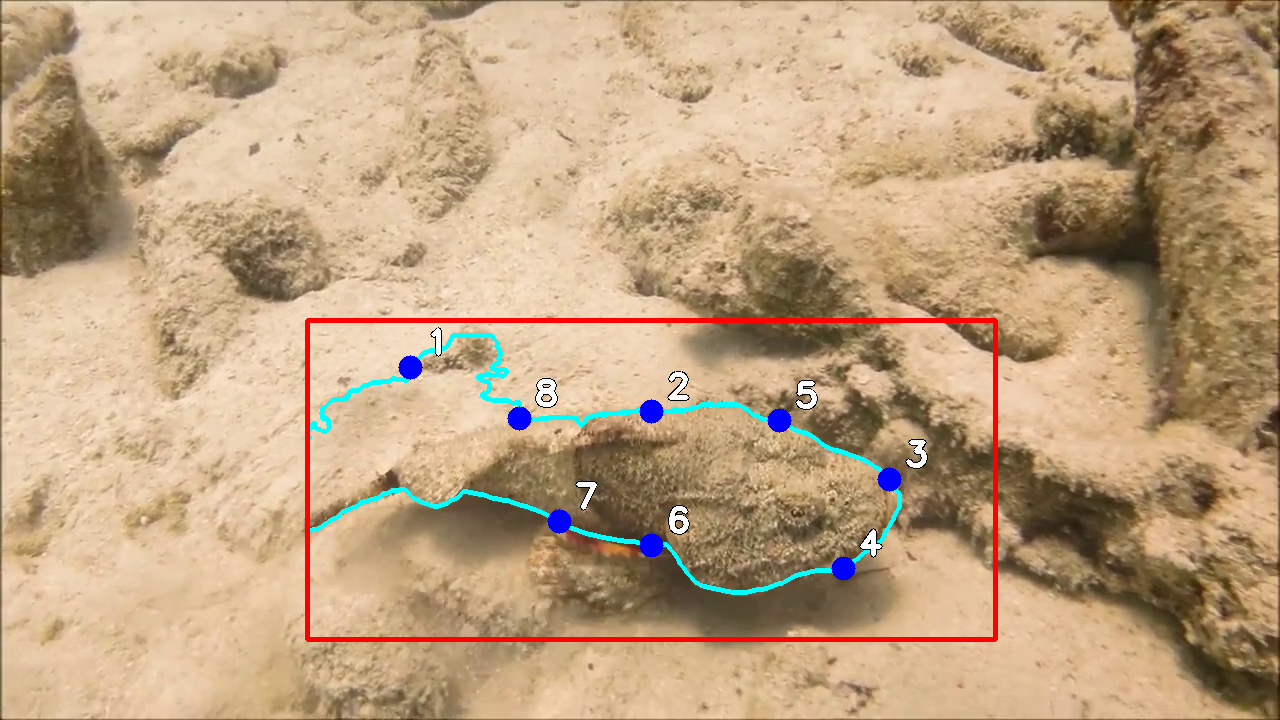
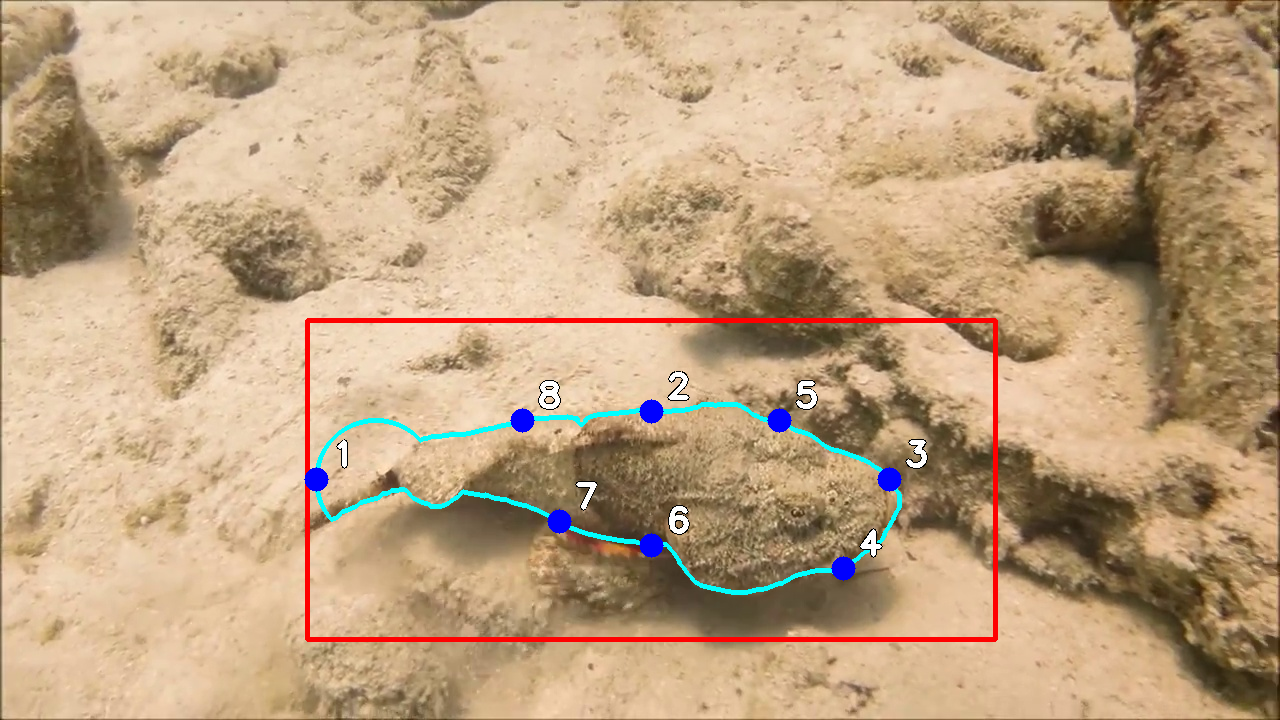
优化提示词，门控机制优化，但是还是会判别不准，强制限制同一个点选择的次数吧

Changed region(s): [[0.2188, 0.4583, 0.4375, 0.7028], [0.25, 0.7028, 0.2812, 0.7333]]

diff --git a/src/sculptor/vlm/prompts.py b/src/sculptor/vlm/prompts.py
@@ -26,26 +26,36 @@ def build_anchor_prompt(
     )
 
     user_msg = f"""
-Target instance (canonical, singular): '{instance}'
+CAMOUFLAGED TARGET: '{instance}'
+This is a CAMOUFLAGED object that naturally blends with its environment. The target may have:
+- Similar colors/textures to the background
+- Irregular, organic shapes that mimic surroundings  
+- Subtle boundaries that are hard to distinguish
+- Parts that appear to "fade into" or "emerge from" the background
+
+Camouflage analysis context:
 Synonyms/aliases: {_fmt_list(sem.get('synonyms'))}
-Salient cues (positive): {_fmt_list(sem.get('salient_cues'))}
-Distractors (background lookalikes): {_fmt_list(sem.get('distractors'))}
-Shape prior: {sem.get('shape_prior') or "unknown"}
-Texture/color prior: {_fmt_list(sem.get('texture_prior'))}
-Scene context: {sem.get('scene_context') or "unknown"}
-NOT-target parts to avoid: {_fmt_list(sem.get('not_target_parts'))}
+Key identifying features: {_fmt_list(sem.get('salient_cues'))}
+Background mimics/distractors: {_fmt_list(sem.get('distractors'))}
+Typical shape: {sem.get('shape_prior') or "unknown"}
+Texture/color patterns: {_fmt_list(sem.get('texture_prior'))}
+Environment: {sem.get('scene_context') or "unknown"}
+Avoid including: {_fmt_list(sem.get('not_target_parts'))}
 
-Green overlay = current mask within the ROI. Anchors 1..8 are placed around boundary.
-Your goal: choose up to {K} anchors to refine so the mask better matches ONLY the target instance.
+CURRENT STATE: Green overlay shows the current mask. Anchors 1..8 mark potential refinement points.
+TASK: Select up to {K} anchors where the camouflaged {instance} boundary needs correction.
 
-Internal evaluation checklist (DO NOT OUTPUT):
-1) Semantic gating: prefer anchors where local pattern matches the target cues and conflicts with distractors.
-2) Leakage vs Missing:
-   - If green spills onto background patterns -> intent="fix_leak".
-   - If true target parts (texture/shape continuity) are missing -> intent="recover_miss".
-3) Geometry sanity: respect silhouette continuity along tangent; avoid breaking plausible outline.
-4) Uncertainty fallback: if unsure, output exactly one anchor with the most plausible intent.
-5) Never propose anchors outside the ROI or on clearly NOT-target parts.
+For CAMOUFLAGED targets, focus on:
+1) Subtle texture transitions - look for slight differences in pattern/grain between target and background
+2) Biological boundaries - camouflaged animals often have natural body contours despite blending
+3) Depth/shadow cues - slight 3D form indicators that reveal the hidden shape
+4) Consistency - camouflaged parts should connect logically to already-identified portions
+
+Decision criteria (DO NOT OUTPUT):
+- LEAK: Green mask extends onto clear background patterns that don't belong to the {instance}
+- MISS: Obvious {instance} body parts are not included, breaking biological continuity
+- Look for SUBTLE but consistent textural/tonal differences at boundaries
+- Trust shape continuity over perfect color matching for camouflaged subjects
 
 Return JSON STRICTLY:
 {{
@@ -92,23 +102,28 @@ def build_quadrant_prompt(
     )
 
     user_msg = f"""
-Target instance (canonical): '{instance}'
-Synonyms: {_fmt_list(sem.get('synonyms'))}
-Salient cues: {_fmt_list(sem.get('salient_cues'))}
-Distractors: {_fmt_list(sem.get('distractors'))}
-NOT-target parts: {_fmt_list(sem.get('not_target_parts'))}
+CAMOUFLAGED TARGET: '{instance}'
+Key features: {_fmt_list(sem.get('salient_cues'))}
+Background mimics: {_fmt_list(sem.get('distractors'))}
+Avoid: {_fmt_list(sem.get('not_target_parts'))}
 
-Focus anchor id: {anchor_id}. A square region centered at this anchor point is divided by the contour's tangent line into two areas:
-- Region 1 (Inner): The side toward the object interior
-- Region 2 (Outer): The side toward the background/exterior
+Focus on anchor {anchor_id}. The square region is divided by the current boundary into:
+- Region 1 (Inner): Toward the {instance} body/interior
+- Region 2 (Outer): Toward the background/environment
 
-Internal decision rubric (DO NOT OUTPUT):
-- POS if the region contains target texture/pattern that should be included in the mask
-- NEG if the region contains background patterns, distractors, or should be excluded from the mask
-- You MUST select exactly one region (either inner or outer, not both)
-- Choose the action (pos/neg) that will most improve the segmentation quality
-- Inner regions typically get POS when object extends inward; NEG when mask over-includes
-- Outer regions typically get NEG when background leaks in; POS when object extends outward
+For CAMOUFLAGED {instance}, examine CLOSELY:
+- Subtle texture/grain differences between target and background
+- Natural body contours vs environmental patterns
+- Consistent biological form vs random background elements
+- Slight tonal/depth variations that reveal the hidden shape
+
+Decision logic (DO NOT OUTPUT):
+- POS: This region contains {instance} body parts that should be included (even if camouflaged)
+- NEG: This region contains background/environment that mimics the {instance} but isn't actually part of it
+- CRITICAL: For camouflaged subjects, trust biological/anatomical continuity over pure visual similarity
+- Inner regions: POS if {instance} extends inward naturally; NEG if mask wrongly includes background
+- Outer regions: NEG if background patterns leak in; POS if {instance} extends outward naturally
+- When uncertain between similar textures, consider: Does this follow the expected {instance} body structure?
 
 Return JSON STRICTLY:
 {{

diff --git a/refactor_sam_sculpt.py b/refactor_sam_sculpt.py
@@ -792,19 +792,27 @@ def main():
         if all_pos_points or all_neg_points:
             print(f"步骤4: 使用 {len(all_pos_points)} 个正点和 {len(all_neg_points)} 个负点进行分割...")
             print(f"[参数] 小正方形尺寸: {square_size:.1f} px （用于智能扩展BBox）")
-            # 构建局部更新门控掩码（允许在本轮涉及到的切线正方形窗口内更新）
+            # 构建严格的局部更新门控掩码（仅允许被选中锚点周围的小范围更新）
             H, W = image.shape[:2]
             allowed_update_mask = np.zeros((H, W), dtype=np.uint8)
-            # 合理的余量，允许轮廓在窗口外稍作延展
-            margin = int(max(6, min(32, square_size * 0.25)))
-            for (L, T, R, Btm) in update_windows:
-                x0m = max(0, L - margin)
-                y0m = max(0, T - margin)
-                x1m = min(W, R + margin)
-                y1m = min(H, Btm + margin)
-                allowed_update_mask[y0m:y1m, x0m:x1m] = 1
+            
+            # 对每个被选中的锚点，创建更小的圆形更新区域
+            anchor_radius = int(max(20, min(60, square_size * 1.1)))  # 比原来的正方形要小得多
+            
+            for anchor_info in selected_anchors:
+                anchor_id = int(anchor_info.get('id', 0))
+                if 1 <= anchor_id <= 8:
+                    # 获取锚点的实际坐标
+                    anchor_x, anchor_y = projected_anchor_points[anchor_id - 1]
+                    
+                    # 创建以锚点为中心的圆形更新区域
+                    cy, cx = np.ogrid[:H, :W]
+                    dist_from_anchor = np.sqrt((cx - anchor_x)**2 + (cy - anchor_y)**2)
+                    circle_mask = dist_from_anchor <= anchor_radius
+                    allowed_update_mask[circle_mask] = 1
+                    
             updated_area = int(allowed_update_mask.sum())
-            print(f"[门控] 本轮允许更新的像素区域: {updated_area}（带margin={margin}px）")
+            print(f"[严格门控] 本轮仅允许被选中锚点周围 {anchor_radius}px 半径内更新，共 {updated_area} 像素")
 
             # 清理GPU缓存以释放内存
             import torch
